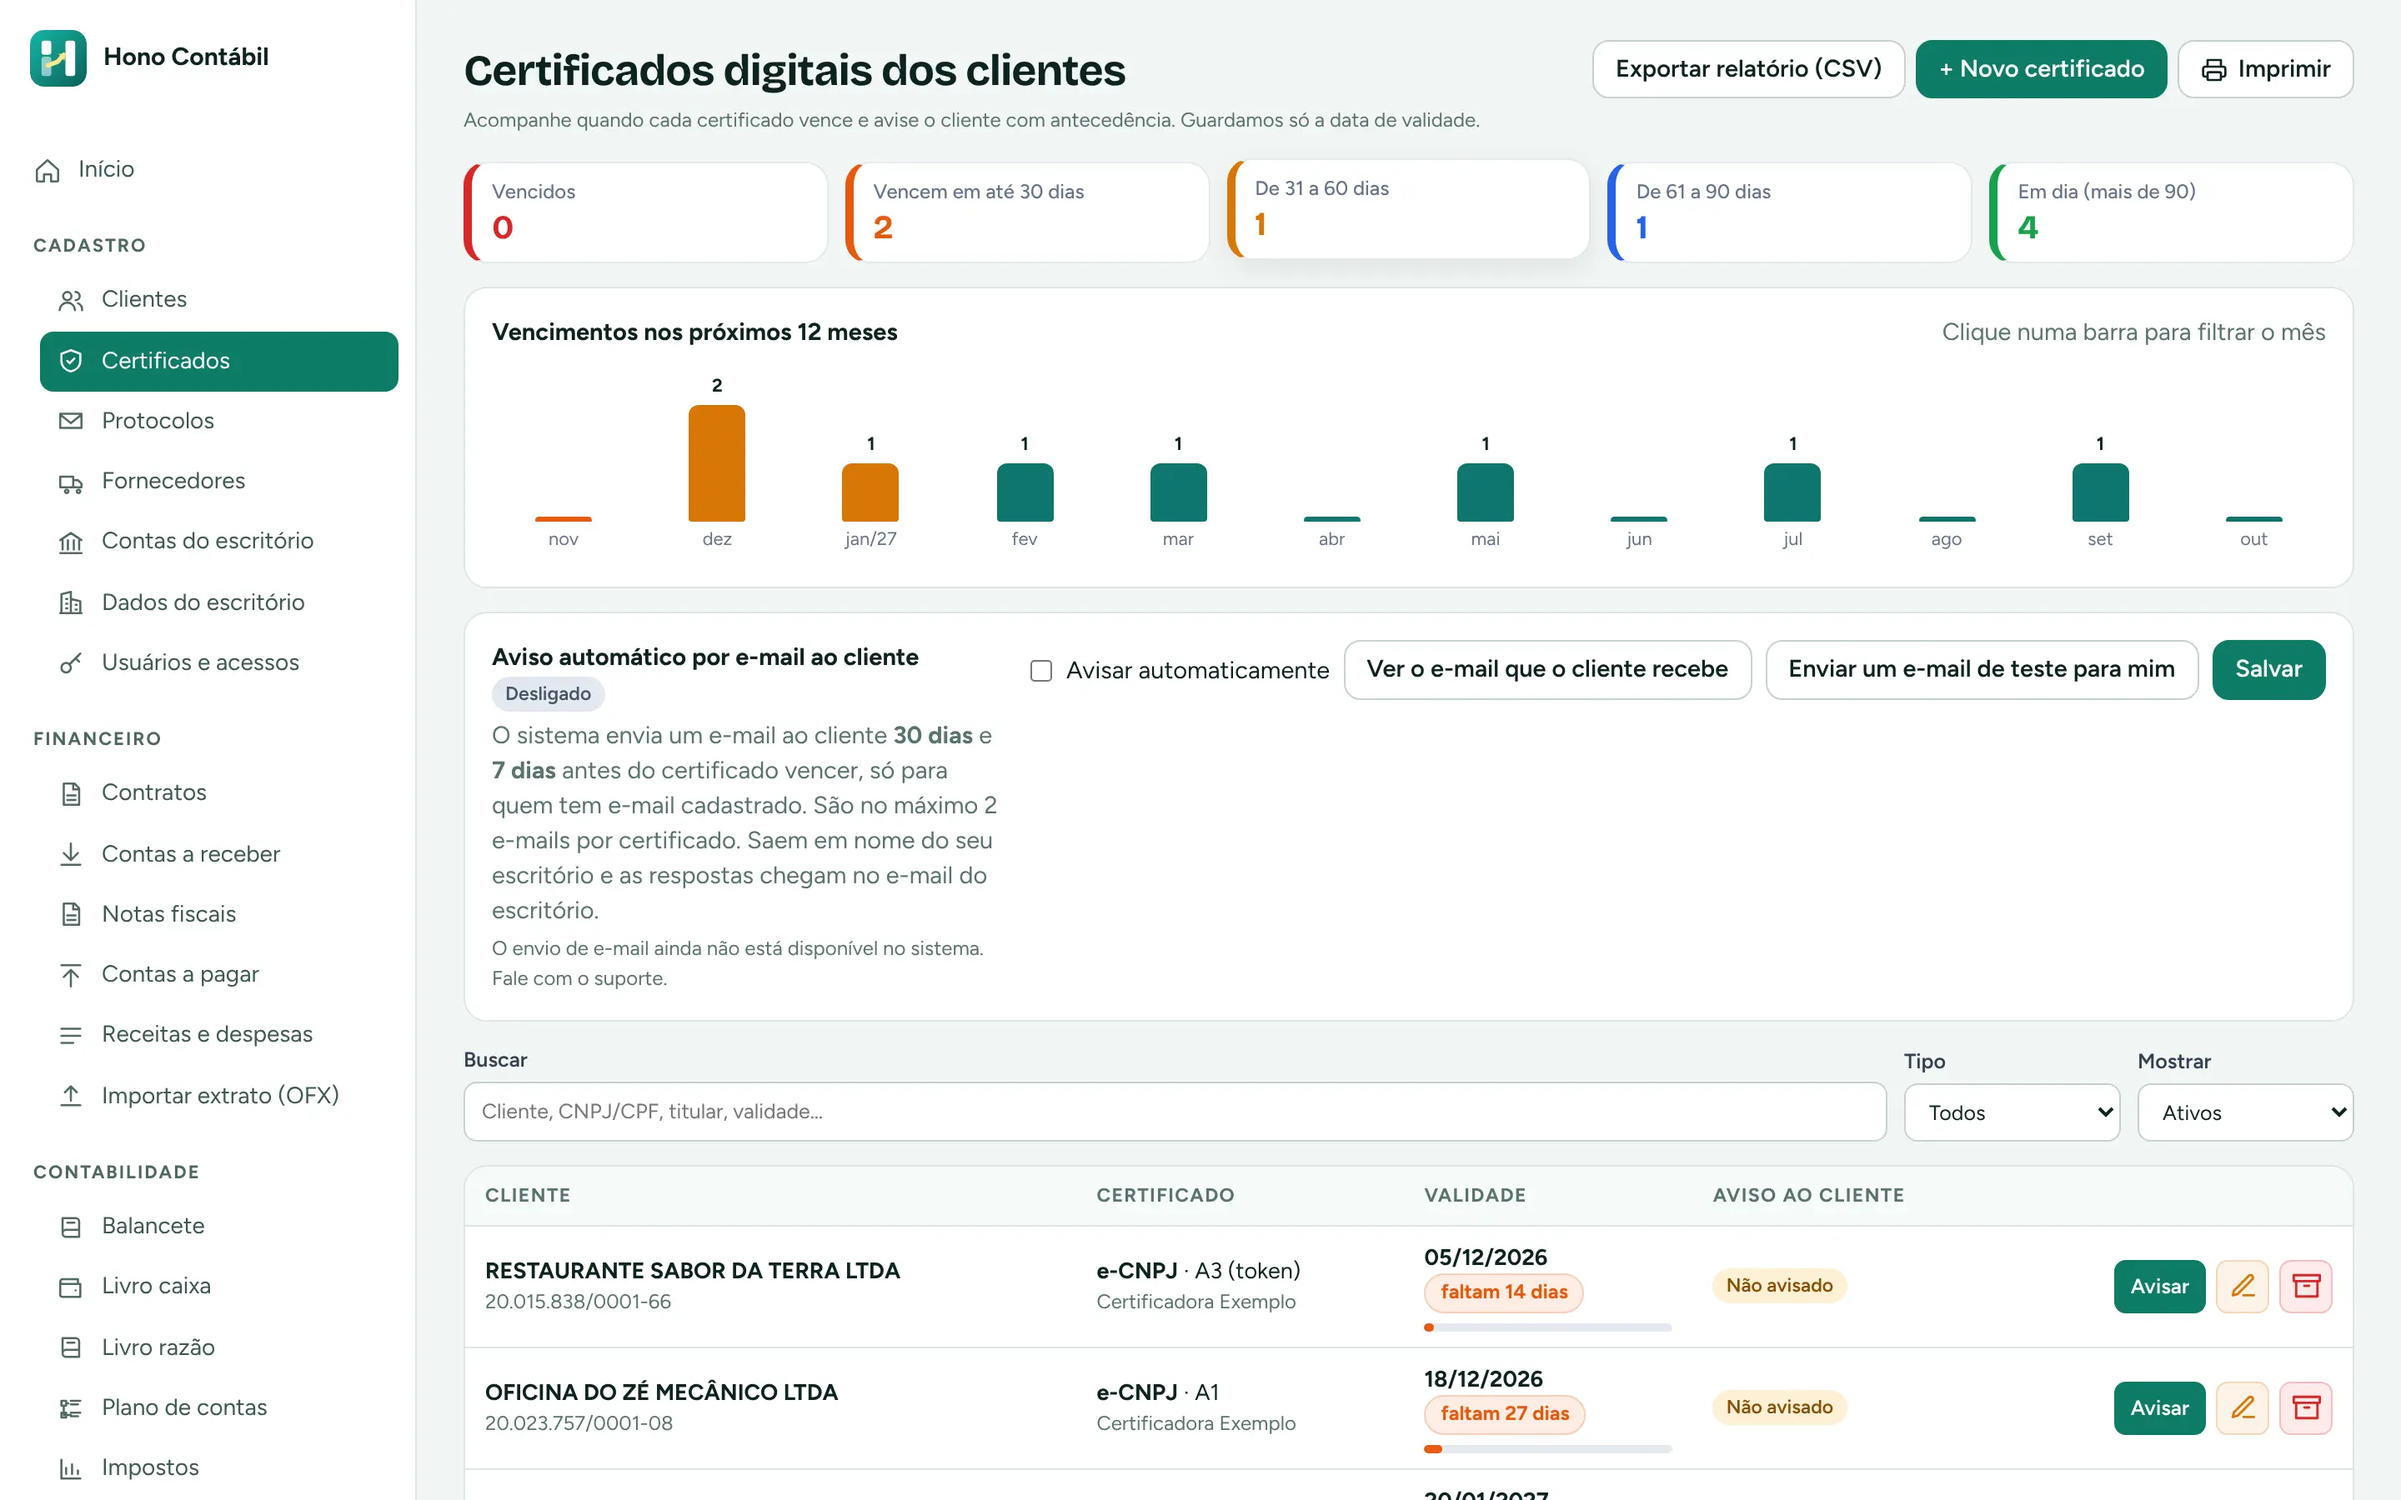
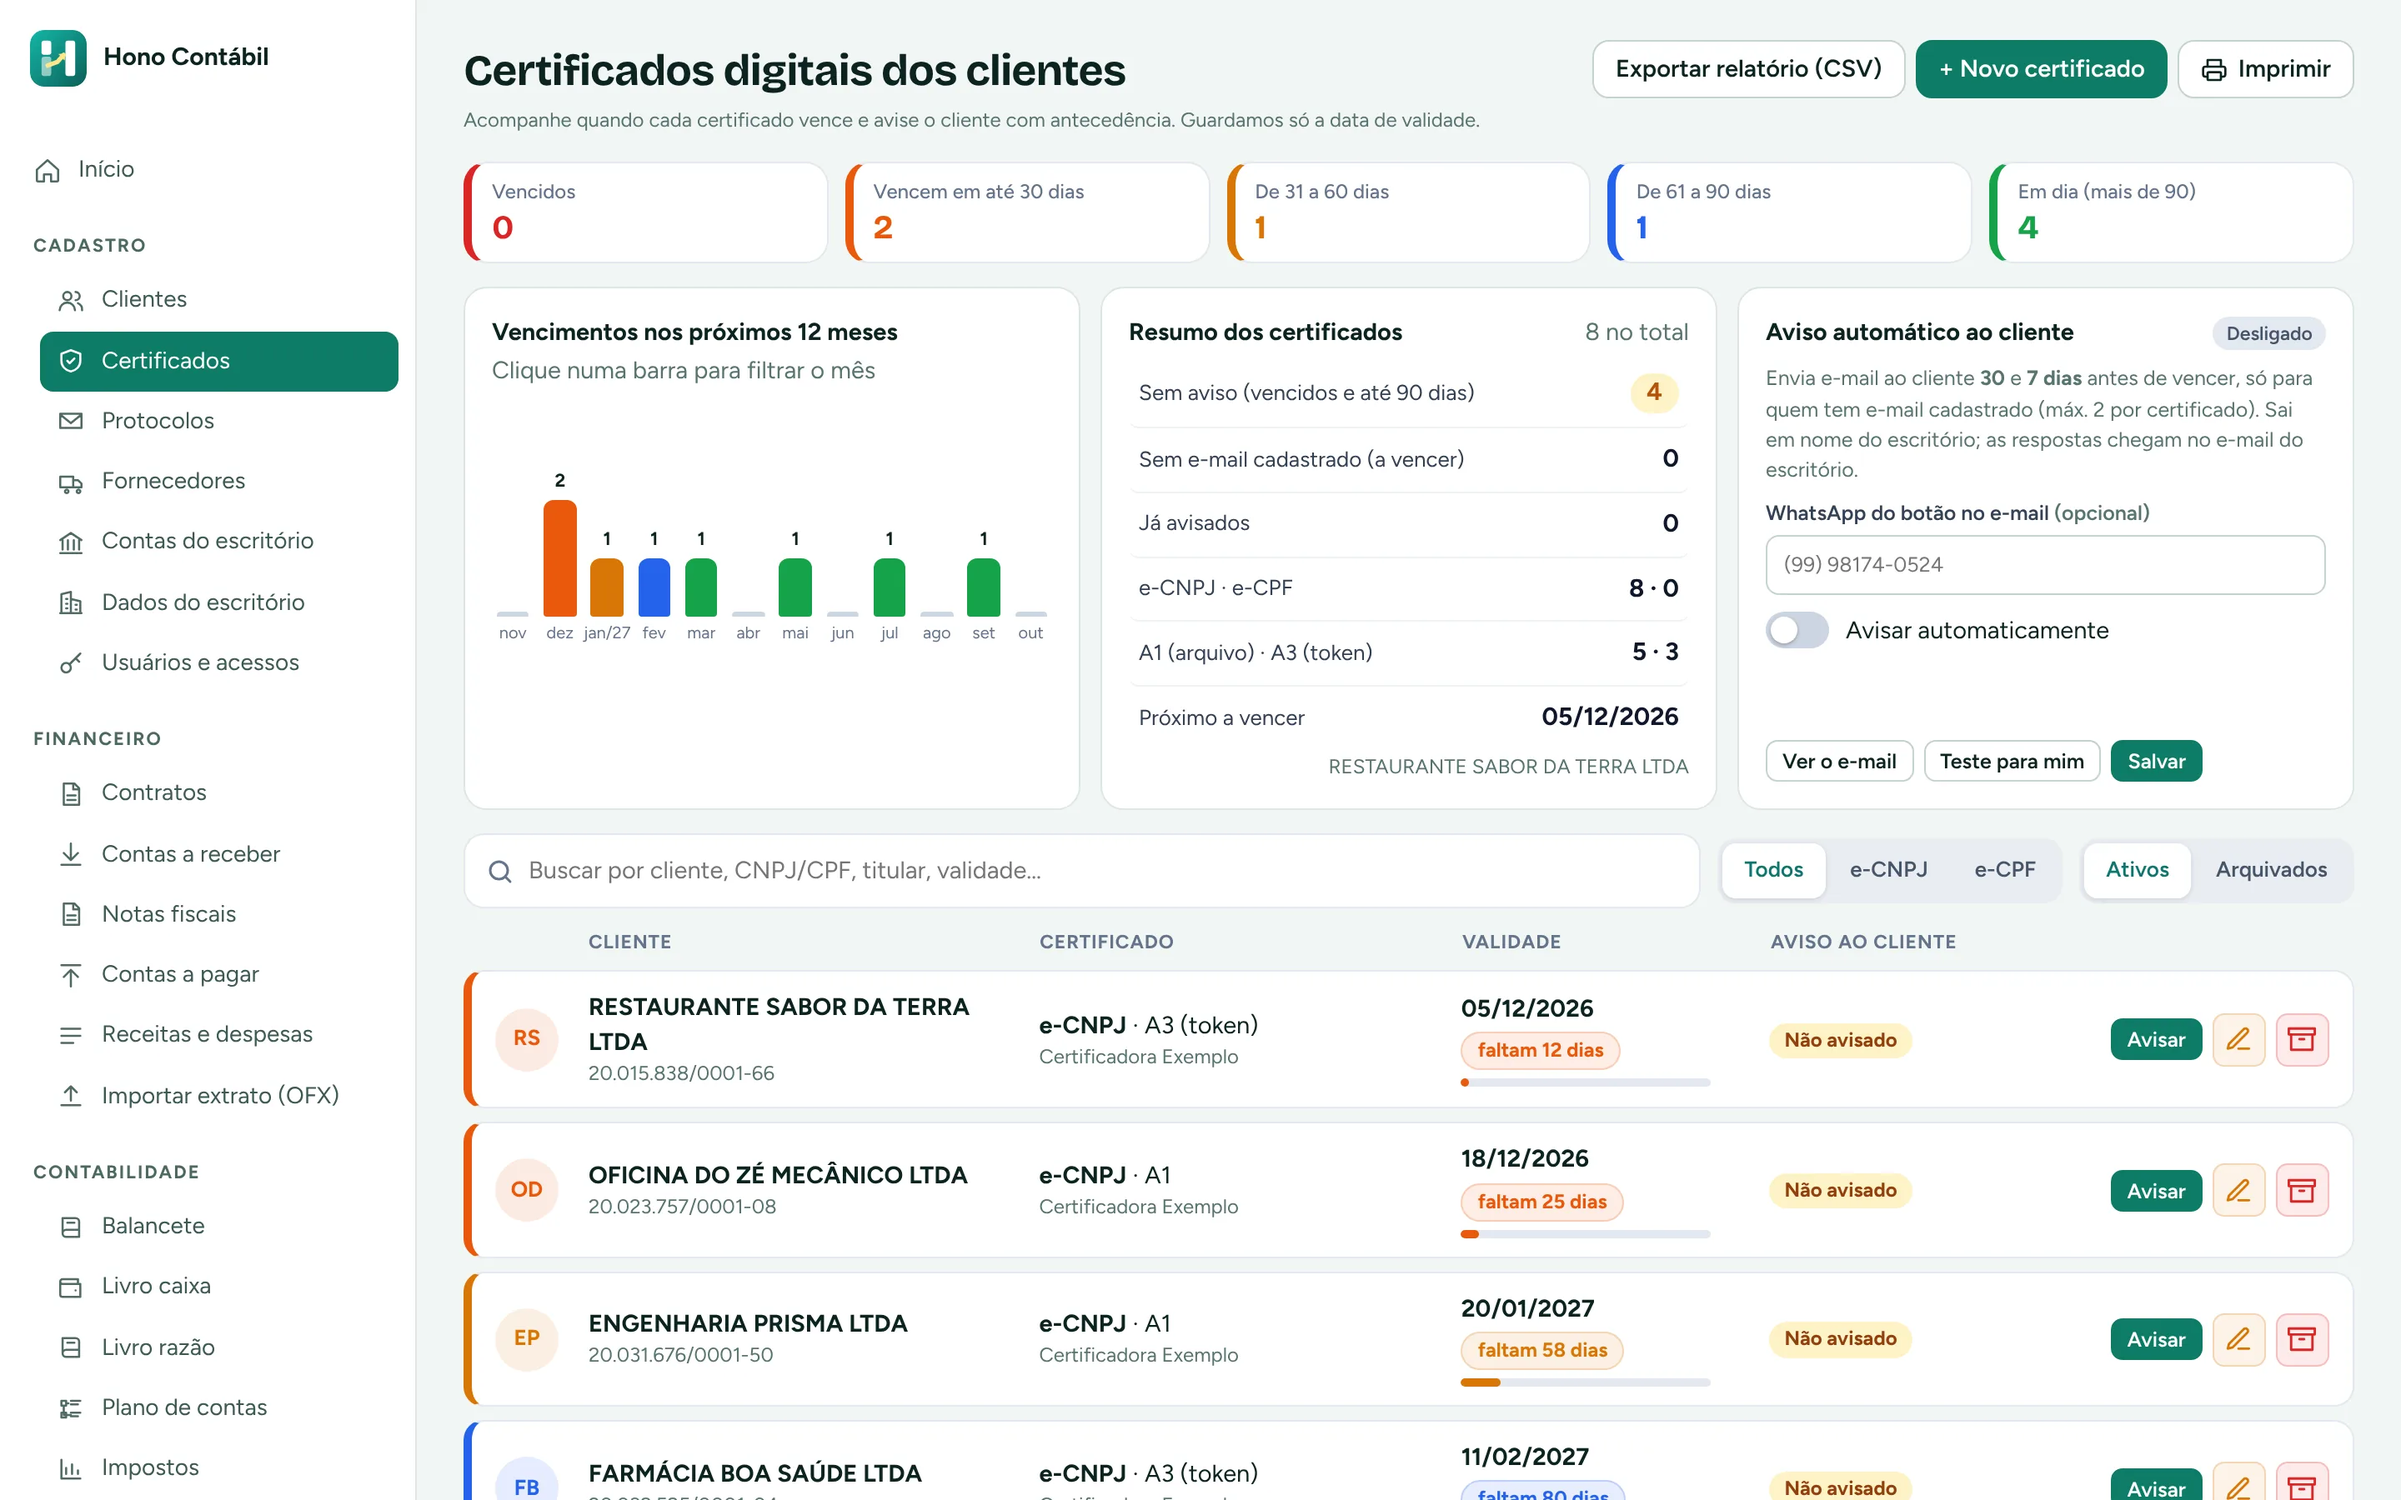
Site: atualiza telas de Certificados e Protocolos com o sistema atual
Claude-Session: https://claude.ai/code/session_01G9FydSgcJ5XjnvpTgrkh7a

diff --git a/index.html b/index.html
@@ -163,8 +163,8 @@
             <img class="on" data-k="notas" src="assets/img/notas.webp?v=logo2" width="2880" height="1800" alt="Tela de notas fiscais de serviço, com notas emitidas e recebimentos a emitir" loading="lazy">
             <img data-k="impostos" src="assets/img/impostos.webp?v=logo2" width="2880" height="1800" alt="Tela de impostos, com a alíquota efetiva e o imposto estimado do Simples Nacional no mês" loading="lazy">
             <img data-k="tabelas" src="assets/img/tabelas.webp?v=logo2" width="2880" height="1800" alt="Tela de tabelas do Simples Nacional, INSS, imposto de renda e salário mínimo" loading="lazy">
-            <img data-k="certificados" src="assets/img/certificados.webp?v=logo2" width="2880" height="1800" alt="Tela de certificados digitais dos clientes, com vencimentos nos próximos 12 meses e aviso ao cliente" loading="lazy">
-            <img data-k="protocolos" src="assets/img/protocolos.webp?v=logo2" width="2880" height="1800" alt="Tela de protocolo de documentos, com o envio de guias ao cliente e o registro de abertura" loading="lazy">
+            <img data-k="certificados" src="assets/img/certificados.webp?v=nov23" width="2880" height="1800" alt="Tela de certificados digitais dos clientes, com vencimentos nos próximos 12 meses e aviso ao cliente" loading="lazy">
+            <img data-k="protocolos" src="assets/img/protocolos.webp?v=nov23" width="2880" height="1800" alt="Tela de protocolo de documentos, com o envio de guias ao cliente e o registro de abertura" loading="lazy">
             <img data-k="contratos" src="assets/img/contratos.webp?v=logo2" width="2880" height="1800" alt="Tela de contratos de honorários, com valor mensal, vencimento e percentual do salário mínimo" loading="lazy">
             <img data-k="receber" src="assets/img/receber.webp?v=logo2" width="2880" height="1800" alt="Tela de contas a receber, com vencidos e a vencer, e botões para receber, editar e cancelar" loading="lazy">
             <img data-k="pagar" src="assets/img/pagar.webp?v=logo2" width="2880" height="1800" alt="Tela de contas a pagar, com despesas em aberto, vencimentos e plano de contas" loading="lazy">
